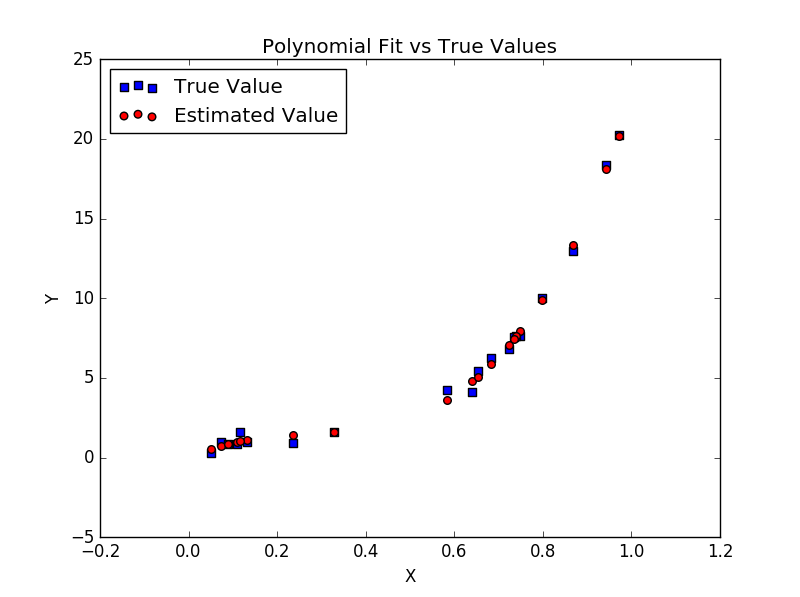
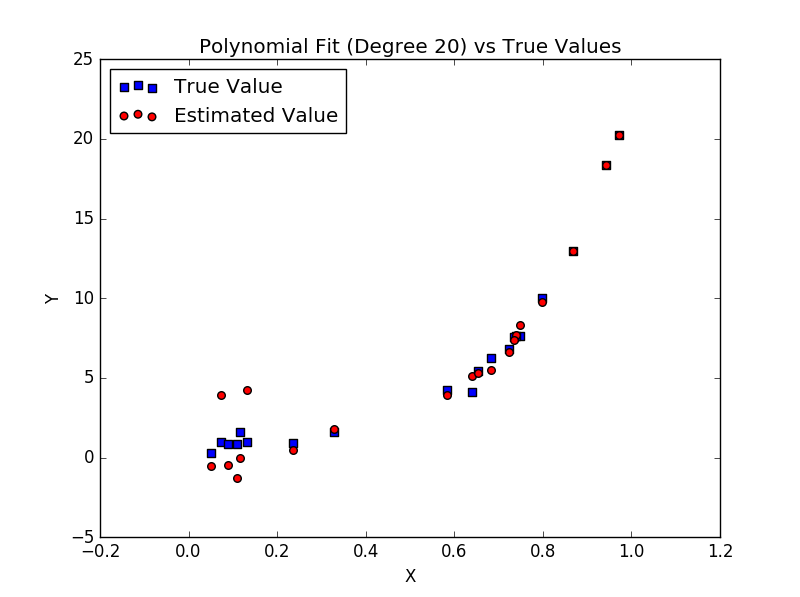
Freeze

diff --git a/main.py b/main.py
@@ -10,6 +10,7 @@ with open("input.txt") as f:
 
 N = len(x)
 
+print "Enter the Degree of the Polynomial to be fit\n(It should be less than number of Data points available)\n"
 n = int(input())
 
 if n - 1 > N:
@@ -62,7 +63,7 @@ print "Coefficient of Determination",R
 
 fig = plt.figure()
 ax = fig.add_subplot(111)
-ax.set_title("Polynomial Fit vs True Values")
+ax.set_title("Polynomial Fit (Degree "+str(n)+")"+" vs True Values")
 ax.set_ylabel("Y")
 ax.set_xlabel("X")
 ax.scatter(x,y, s=30, c='b', marker="s", label='True Value')
